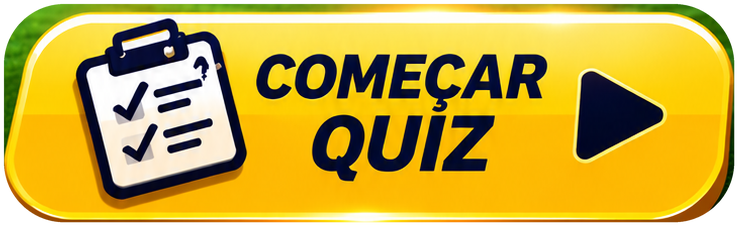
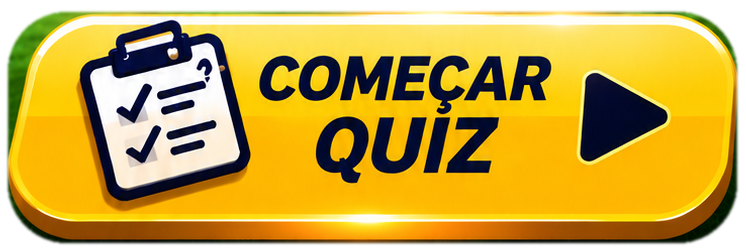
atualiza o jogo

diff --git a/index.html b/index.html
@@ -1262,9 +1262,9 @@ nav.abas button{font-size:11px}
 .qz-art{position:relative;width:min(100vw,calc(100vh*841/1870));aspect-ratio:841/1870}.qz-art img{width:100%;height:100%;display:block}
 .qz-hs{position:absolute;background:transparent;border:0;padding:0;cursor:pointer;-webkit-tap-highlight-color:transparent}
 .qz-hs.voltar{left:2.5%;top:3.8%;width:15.5%;height:4.8%;border-radius:14px}.qz-hs.engr{left:82.5%;top:3.8%;width:15%;height:4.8%;border-radius:14px}
-.qz-hs.ir{left:5.23%;top:66.74%;width:87.75%;height:12.19%;border-radius:60px}.qz-hs.ir img{width:100%;height:100%;display:block;pointer-events:none;animation:qzBt 1.1s ease-in-out infinite;transform-origin:center}.qz-hs.ir:active{background:transparent}
+.qz-hs.ir{left:4.76%;top:66.63%;width:88.7%;height:13.37%;border-radius:60px}.qz-hs.ir img{width:100%;height:100%;display:block;pointer-events:none;animation:qzBt 1.1s ease-in-out infinite;transform-origin:center}.qz-hs.ir:active{background:transparent}
 @keyframes qzBt{0%,100%{transform:scale(1);filter:drop-shadow(0 0 0 rgba(255,214,60,0))}12%{transform:scale(1.05)}24%{transform:scale(1)}36%{transform:scale(1.04);filter:drop-shadow(0 0 16px rgba(255,214,60,.8))}50%{transform:scale(1)}}
-.qz-luz{position:absolute;left:7%;top:15.5%;width:86%;height:36.5%;overflow:hidden;pointer-events:none;mix-blend-mode:overlay;-webkit-mask:radial-gradient(ellipse 50% 50% at 50% 50%,#000 70%,transparent 100%);mask:radial-gradient(ellipse 50% 50% at 50% 50%,#000 70%,transparent 100%)}
+.qz-luz{position:absolute;left:8%;top:17%;width:84%;height:34%;overflow:hidden;pointer-events:none;mix-blend-mode:overlay;-webkit-mask:radial-gradient(ellipse 50% 50% at 50% 50%,#000 70%,transparent 100%);mask:radial-gradient(ellipse 50% 50% at 50% 50%,#000 70%,transparent 100%)}
 .qz-luz::before{content:"";position:absolute;top:-20%;bottom:-20%;left:0;width:35%;background:linear-gradient(100deg,transparent,rgba(255,255,255,.95) 50%,transparent);transform:translateX(-120%) skewX(-18deg);animation:qzLuz 4s ease-in-out infinite}
 @keyframes qzLuz{0%{transform:translateX(-120%) skewX(-18deg)}18%,100%{transform:translateX(320%) skewX(-18deg)}}
 .qz-hs:active{background:rgba(255,255,255,.18)}
@@ -5090,7 +5090,7 @@ function abrirSeletorCor(inp){
 }
 document.addEventListener("click",ev=>{const i=ev.target.closest&&ev.target.closest('input[type="color"]');if(!i)return;ev.preventDefault();abrirSeletorCor(i)},true);
 /* app instalado: confere se o site tem versão nova e recarrega (o número é trocado pelo publicar-site.sh) */
-const VERSAO="1795279777";
+const VERSAO="1795279986";
 function versaoOk(){if(CARGA.verOk)return;CARGA.verOk=true;if(abertura&&CARGA.intro)render()} // 02/11: a logo só aparece depois de conferir a versão (sem logo dobrada)
 function checarVersao(){
   if(VERSAO.startsWith("__")||!/^https?:/.test(location.protocol)){versaoOk();return}
